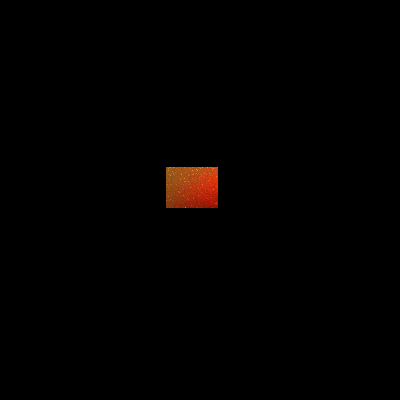
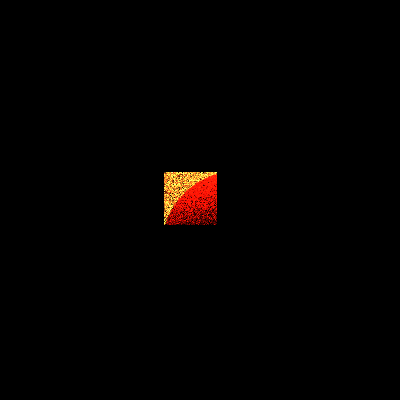
edge more defined

Changed region(s): [[0.39, 0.42, 0.57, 0.57]]

diff --git a/assignment_package/src/integrators/volumetricintegrator.cpp b/assignment_package/src/integrators/volumetricintegrator.cpp
@@ -20,19 +20,20 @@ Color3f VolumetricIntegrator::Li(Ray &ray, const Scene &scene, std::shared_ptr<S
     BxDFType type = BSDF_DIFFUSE;
     BxDFType all = BSDF_ALL;
     int recursionLimit = depth;
-    float distToLight = INFINITY;
 
     // number of lights
     int num= scene.lights.length();
     if (num == 0) return Color3f(0.f);
+    bool sampledMedium;
 
     while (depth > 0) {
         Intersection isect;
         bool hit = scene.Intersect(ray, &isect);
 
+        sampledMedium = false;
         // sample medium
         if (ray.medium) {
-            energy *= ray.medium->Sample(ray, distToLight, &isect);
+            energy *= ray.medium->Sample(ray, &sampledMedium, &isect);
         } else {
             if (!hit) break;
         }
@@ -40,7 +41,7 @@ Color3f VolumetricIntegrator::Li(Ray &ray, const Scene &scene, std::shared_ptr<S
 
         // handle intersection with medium
         Vector3f woW = -ray.direction;
-        if (!isect.mediumInterface->IsInterface()) {
+        if (sampledMedium) {
             Color3f Ld = Color3f(0.f);
             float lightPdf = 0, phaseLight = 0;
 
@@ -63,7 +64,6 @@ Color3f VolumetricIntegrator::Li(Ray &ray, const Scene &scene, std::shared_ptr<S
                 if (hitSurface && shadFeel.objectHit->areaLight == scene.lights[index]) {
                     // Update transmittance for current ray segment
                     if (light_ray.medium) Tr *= light_ray.medium->Tr(light_ray);
-                    distToLight = shadFeel.t;
                 } else Li = Color3f(0.f);
 
                 Li *= Tr;

diff --git a/assignment_package/src/scene/jsonreader.cpp b/assignment_package/src/scene/jsonreader.cpp
@@ -136,9 +136,9 @@ bool JSONReader::LoadGeometry(QJsonObject &geometry, QMap<QString, std::shared_p
                 QString med2 = medInterface.at(1).toString();
                 std::shared_ptr<Medium> medium1 = nullptr;
                 std::shared_ptr<Medium> medium2 = nullptr;
-                for (im = med_map.begin(); im != med_map.end(); ++i) {
-                    if(!med1.isEmpty() && i.key() == med1) medium1 = im.value();
-                    if(!med2.isEmpty() && i.key() == med2) medium2 = im.value();
+                for (im = med_map.begin(); im != med_map.end(); ++im) {
+                    if(!med1.isEmpty() && im.key() == med1) medium1 = im.value();
+                    if(!med2.isEmpty() && im.key() == med2) medium2 = im.value();
                 }
                 primitive->mediumInterface = std::make_shared<MediumInterface>(medium1, medium2);
             }
@@ -298,7 +298,7 @@ bool JSONReader::LoadCSG(QJsonObject &csgObj, QMap<QString, std::shared_ptr<Mate
             QString med2 = medInterface.at(1).toString();
             std::shared_ptr<Medium> medium1 = nullptr;
             std::shared_ptr<Medium> medium2 = nullptr;
-            for (im = med_map.begin(); im != med_map.end(); ++i) {
+            for (im = med_map.begin(); im != med_map.end(); ++im) {
                 if(!med1.isEmpty() && im.key() == med1) medium1 = im.value();
                 if(!med2.isEmpty() && im.key() == med2) medium2 = im.value();
             }

diff --git a/assignment_package/src/scene/mediums/homogeneousmedium.cpp b/assignment_package/src/scene/mediums/homogeneousmedium.cpp
@@ -9,14 +9,14 @@ float HomogeneousMedium::Tr(const Ray &ray) const
 }
 
 // x : distance to light
-float HomogeneousMedium::Sample(const Ray &ray, const float x, Intersection *inter) const
+float HomogeneousMedium::Sample(const Ray &ray, bool *sampledMedium, Intersection *inter) const
 {
     // sample a distance along the ray
     float t = glm::min(1.f / sigma_t / density, ray.tMax); // sample free path
     float pdf = sigma_t * std::exp(-sigma_t * t);
-    bool sampledMedium = t < ray.tMax;
+    *sampledMedium = t < ray.tMax;
 
-    if (sampledMedium) { // rewrite inter
+    if (*sampledMedium) { // rewrite inter
         *inter = Intersection();
         inter->point = ray(t);
         inter->mediumInterface = std::make_shared<MediumInterface>(ray.medium);
@@ -27,7 +27,7 @@ float HomogeneousMedium::Sample(const Ray &ray, const float x, Intersection *int
     float Tr = glm::exp(-sigma_t * t * glm::length(ray.direction));
 
     // return weighting factor for in-scattering (3rd term)
-    return sampledMedium ? (Tr * sigma_s / pdf) : (Tr / pdf);
+    return *sampledMedium ? (Tr * sigma_s / pdf) : (Tr / pdf);
 }
 
 float HomogeneousMedium::Sample_p(const Vector3f &wo, Vector3f *wi, const Point2f &u) const {

diff --git a/assignment_package/src/scene/mediums/homogeneousmedium.h b/assignment_package/src/scene/mediums/homogeneousmedium.h
@@ -20,7 +20,7 @@ public:
         // Lo : reflected radiance back along ray from point at surface intersection
         // Tr': Transmittance between ray origin and sampled point
         // Ls : added radiance along ray at sampled point due to volume scattering and emission
-    float Sample(const Ray &ray, const float x, Intersection *isect) const;
+    float Sample(const Ray &ray, bool* sampledMedium, Intersection *isect) const;
 
     // returns Phase pdf
     float Sample_p(const Vector3f &wo, Vector3f *wi, const Point2f &u) const;

diff --git a/assignment_package/src/scene/mediums/medium.h b/assignment_package/src/scene/mediums/medium.h
@@ -14,7 +14,7 @@ public:
 
     // sample the integral form of the equation of transfer, consisting
     // of a surface and medium-related term
-    virtual float Sample(const Ray &ray, const float x, Intersection *isect) const = 0;
+    virtual float Sample(const Ray &ray, bool* sampledMedium, Intersection *isect) const = 0;
 
     // samples an incident direction wi and a sample value in [0, 1)^2
     // does not return pdf since a call to p() will work

diff --git a/assignment_package/src/scene/geometry/primitive.cpp b/assignment_package/src/scene/geometry/primitive.cpp
@@ -9,7 +9,9 @@ bool Primitive::Intersect(Ray &r, Intersection *isect) const
     if(!shape->Intersect(r, isect)) return false;
     isect->objectHit = this;
     isect->mediumInterface = mediumInterface;
-//    if (glm::dot(isect->normalGeometric, -r.direction) < 0.f) isect->mediumInterface->Swap();
+    if (glm::dot(isect->normalGeometric, -r.direction) < 0.f) {
+        isect->mediumInterface->Swap();
+    }
     return true;
 }
 
